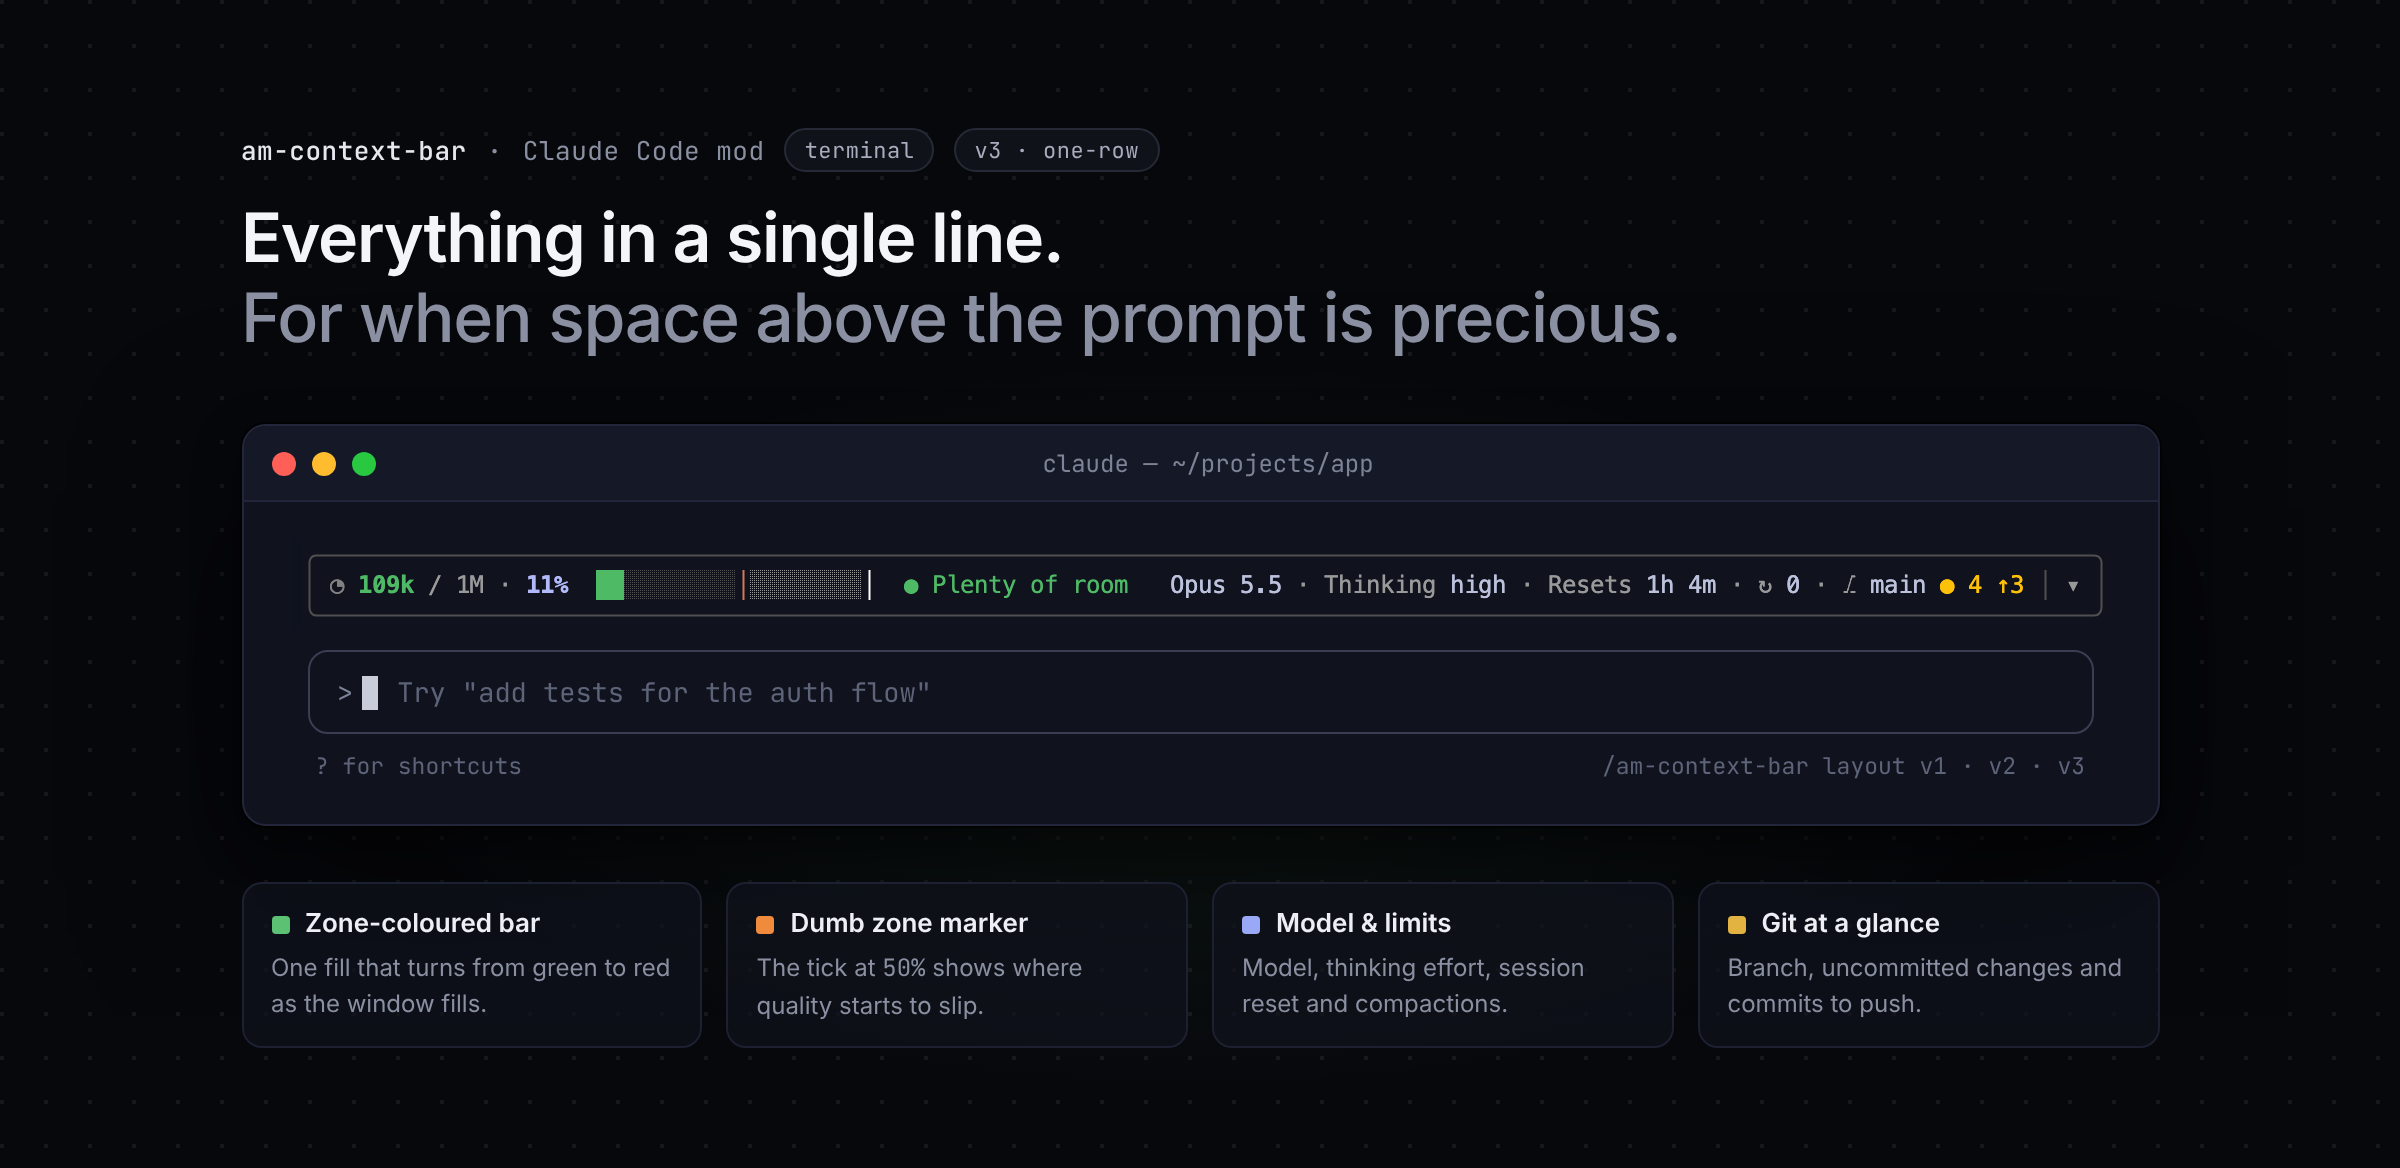
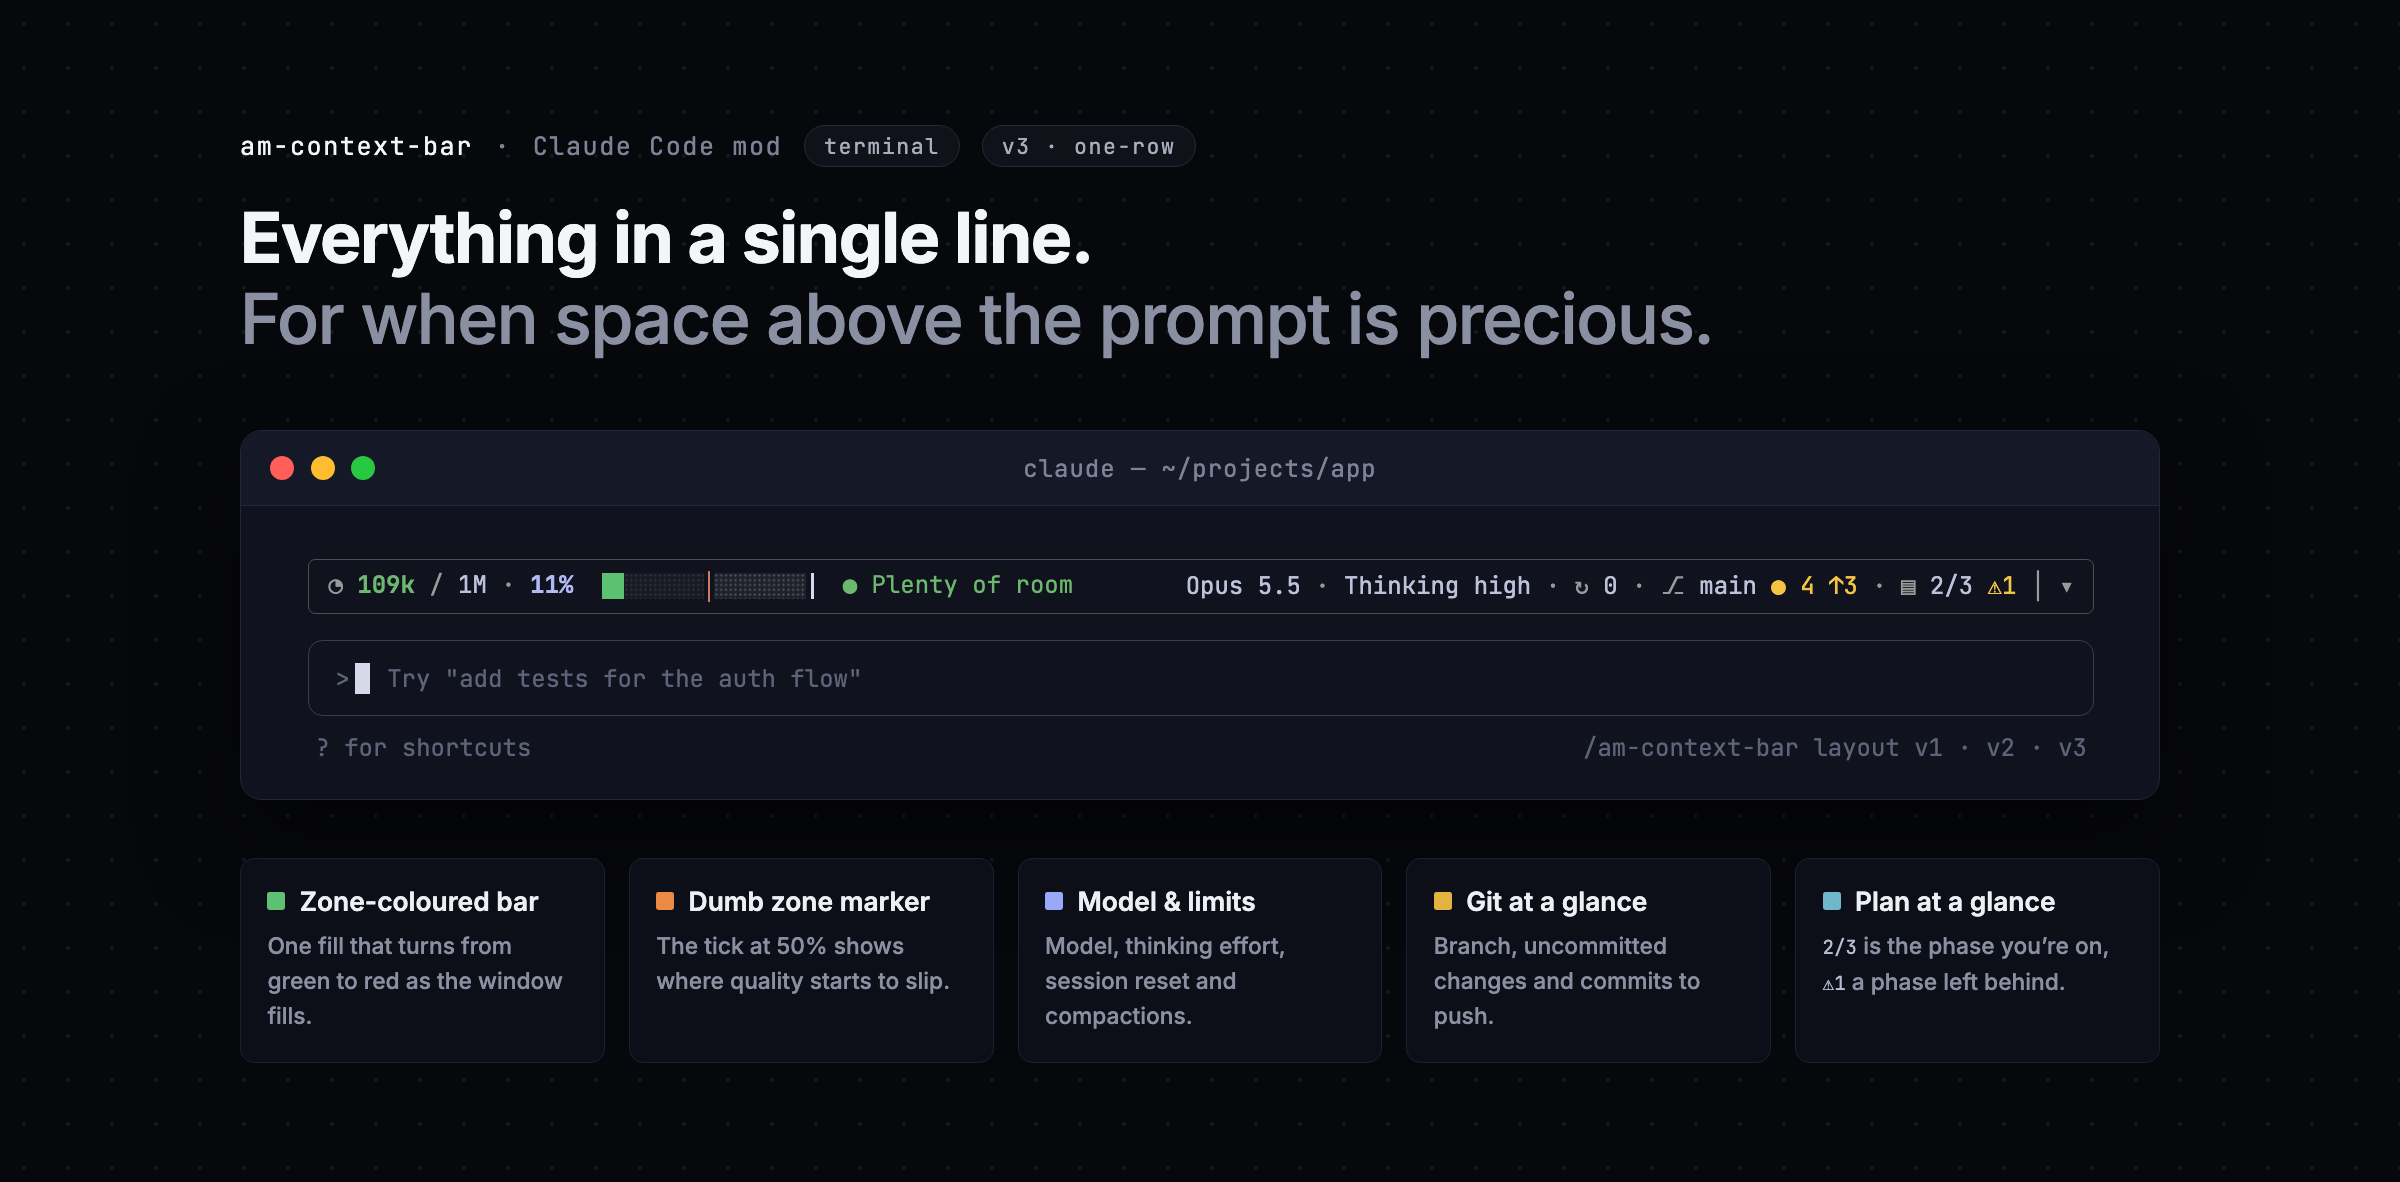
README: screenshots with plan progress, collapsed card first
Every screenshot now shows plan progress: the plan line in the three-
and two-row layouts, the ▤ 2/3 ⚠1 mark in the one-row, and the PLAN
section in the expanded card, each with a plan feature card. The
collapsed three-row card, the everyday view, is the README's first
image. The reading table explains the plan line; the badge reads 0.4.3.

Claude-Session: https://claude.ai/code/session_017huh4PNWoFYoZMejqNCeza

diff --git a/README.md b/README.md
@@ -4,11 +4,11 @@
 
 **Live UI mods for the [Claude Code](https://claude.com/claude-code) terminal.**
 
-[![Version](https://img.shields.io/badge/am--context--bar-0.4.0-4F7FD9)](mods/am-context-bar/.claude-plugin/plugin.json)
+[![Version](https://img.shields.io/badge/am--context--bar-0.4.3-4F7FD9)](mods/am-context-bar/.claude-plugin/plugin.json)
 [![License: MIT](https://img.shields.io/badge/license-MIT-3FA34D)](LICENSE)
 [![Claude Code plugin](https://img.shields.io/badge/Claude%20Code-plugin-D97757)](https://claude.com/claude-code)
 
-<img src="docs/expanded.png" alt="The am-context-bar card, expanded, above the Claude Code prompt in the terminal" width="820">
+<img src="docs/collapsed-three-rows.png" alt="The am-context-bar card, collapsed, above the Claude Code prompt in the terminal: context use, model and limits, git status, and the plan phase at hand" width="820">
 
 </div>
 
@@ -98,6 +98,7 @@ Everything on one line. The bar is a single fill in the zone's colour, so it tur
 | `Resets 1h 5m` | When the session limit resets. |
 | `↻ 0` | How many times this session has been compacted. |
 | `⎇ main · ● 4 uncommitted changes ↑3` | The branch, then `● 4 uncommitted changes` (staged, unstaged and untracked) or `✓ Nothing to commit` on a clean tree. `↑3` counts commits to push and `↓1` commits to pull, when the branch has an upstream. |
+| `▤ Phase 2/3 Cart and discounts · 3 open` | With a plan, the phase you're on and its open tasks; `⚠ P1: 1 left` on the right flags an earlier phase with tasks still open. In V3 it shrinks to `▤ 2/3 ⚠1`. See [Plan progress](#plan-progress). |
 | `│ ▾` | Expands the card. |
 
 ---
